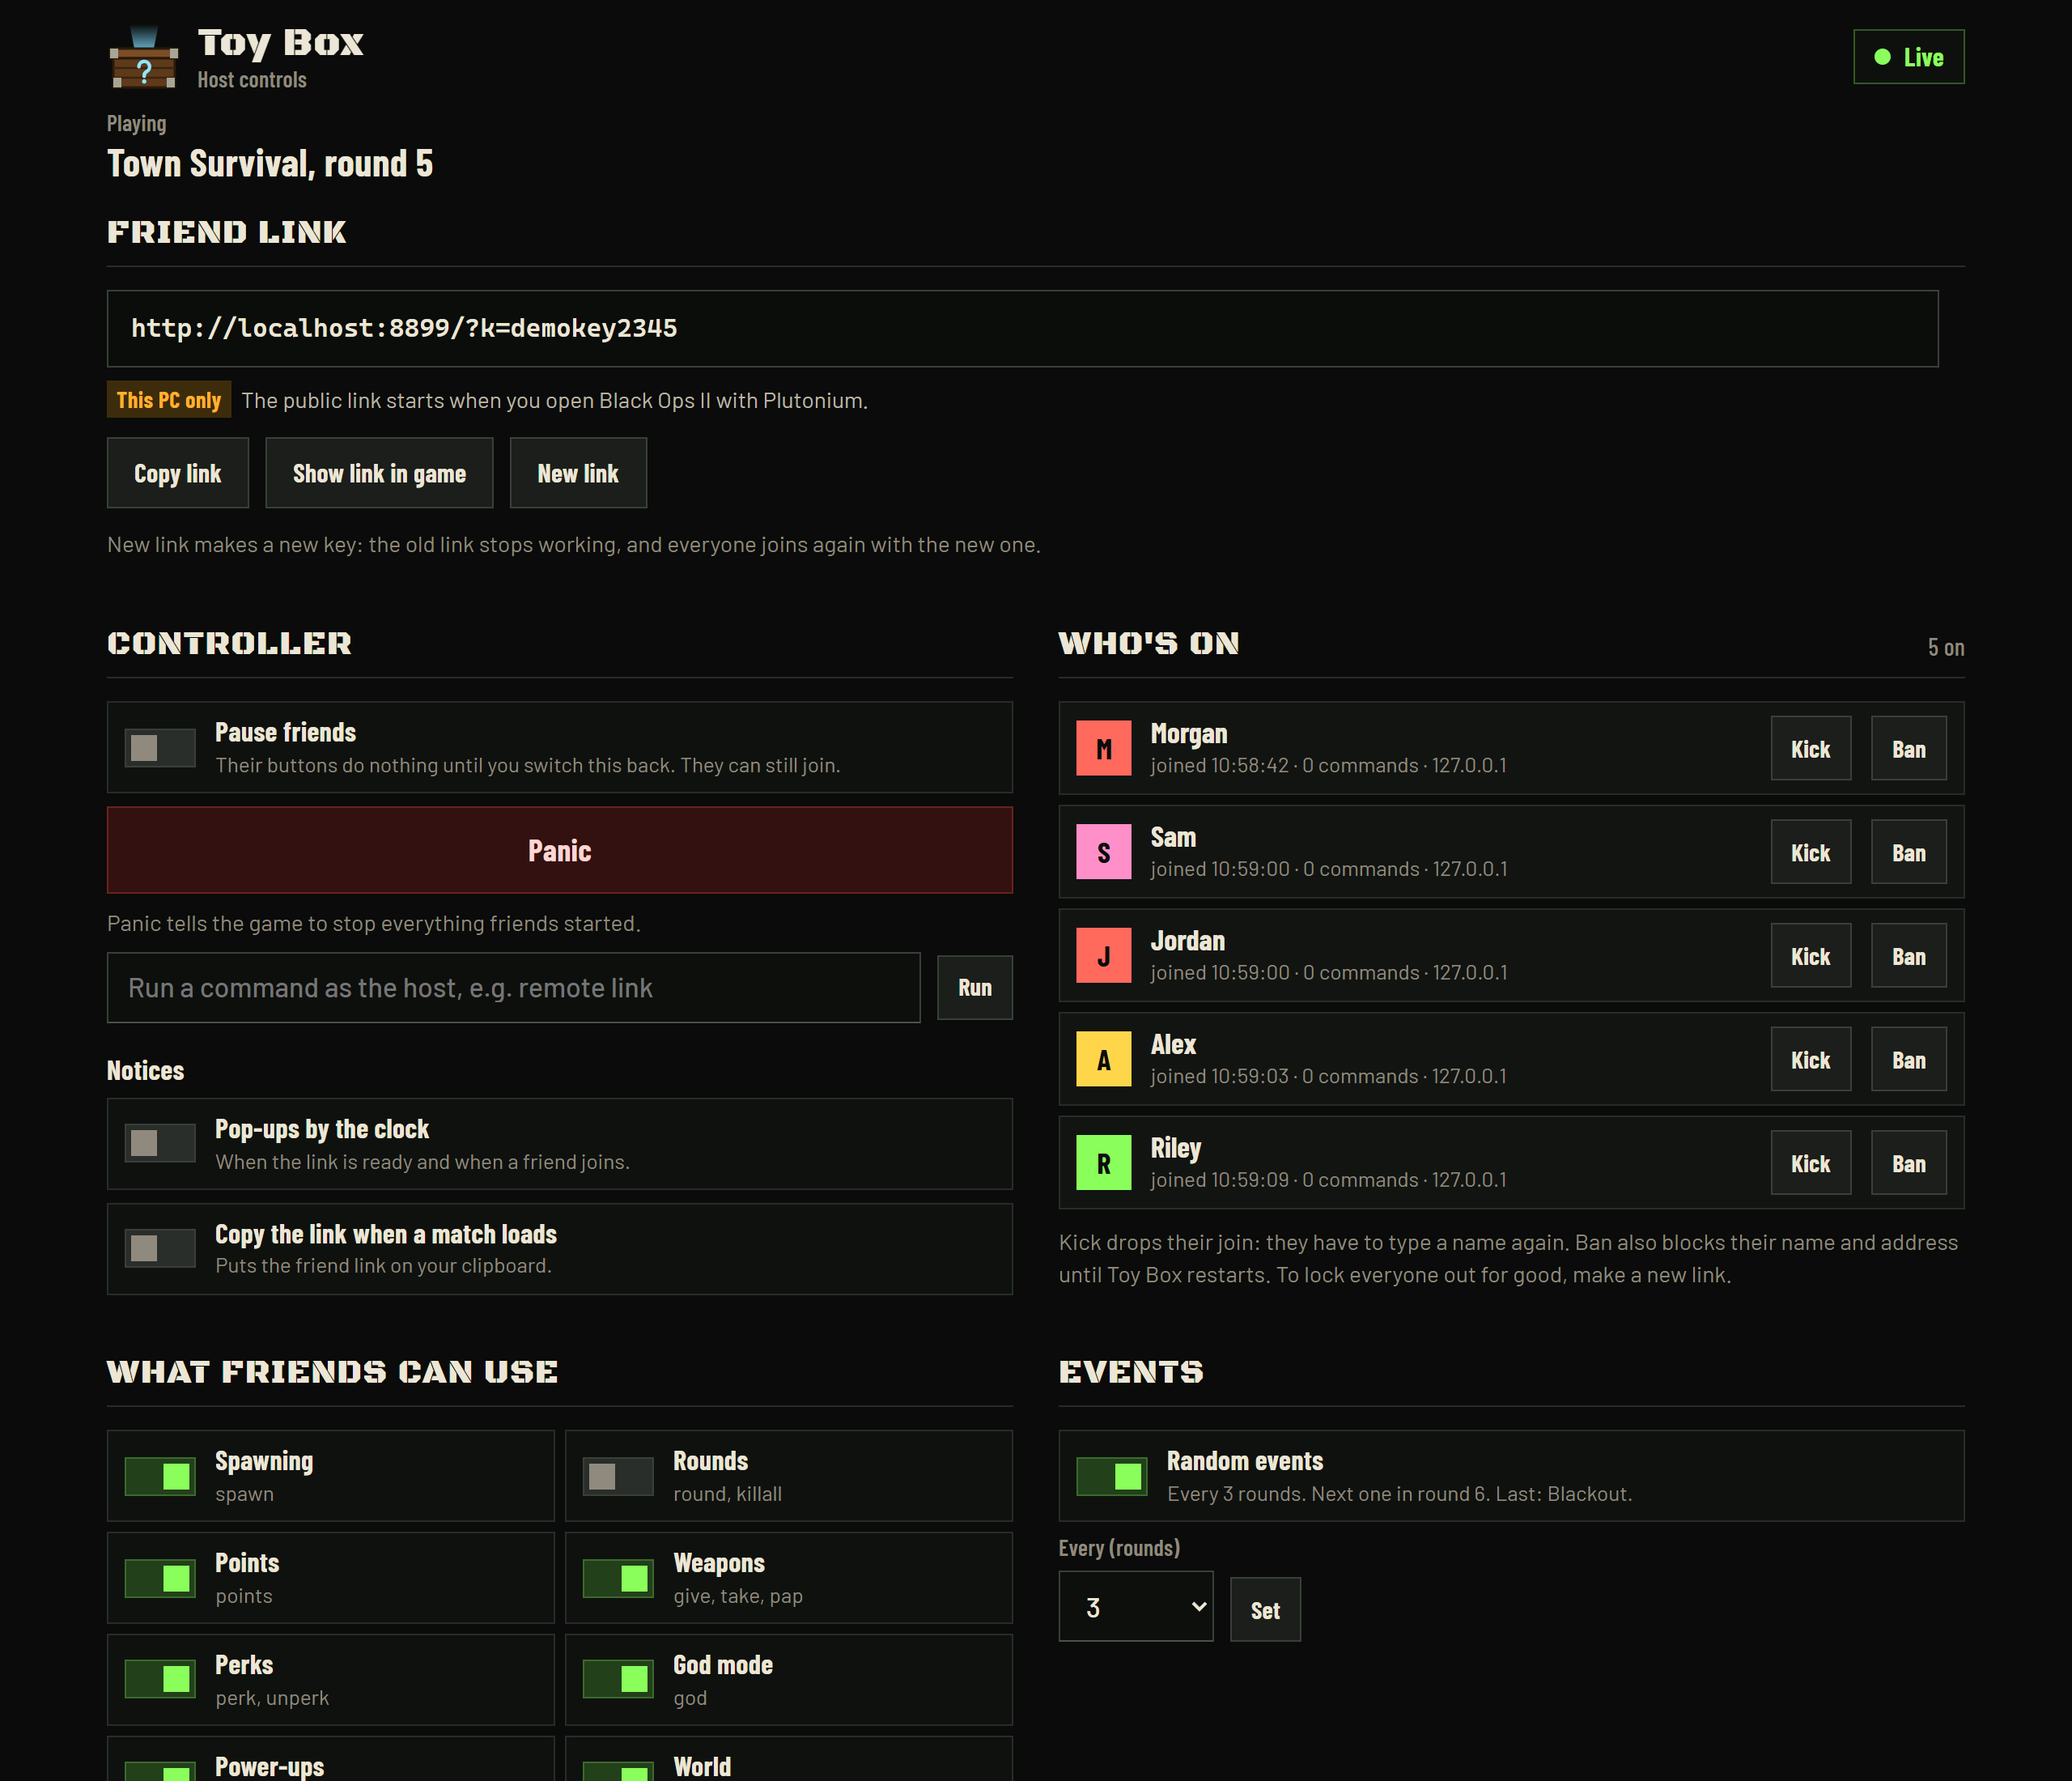
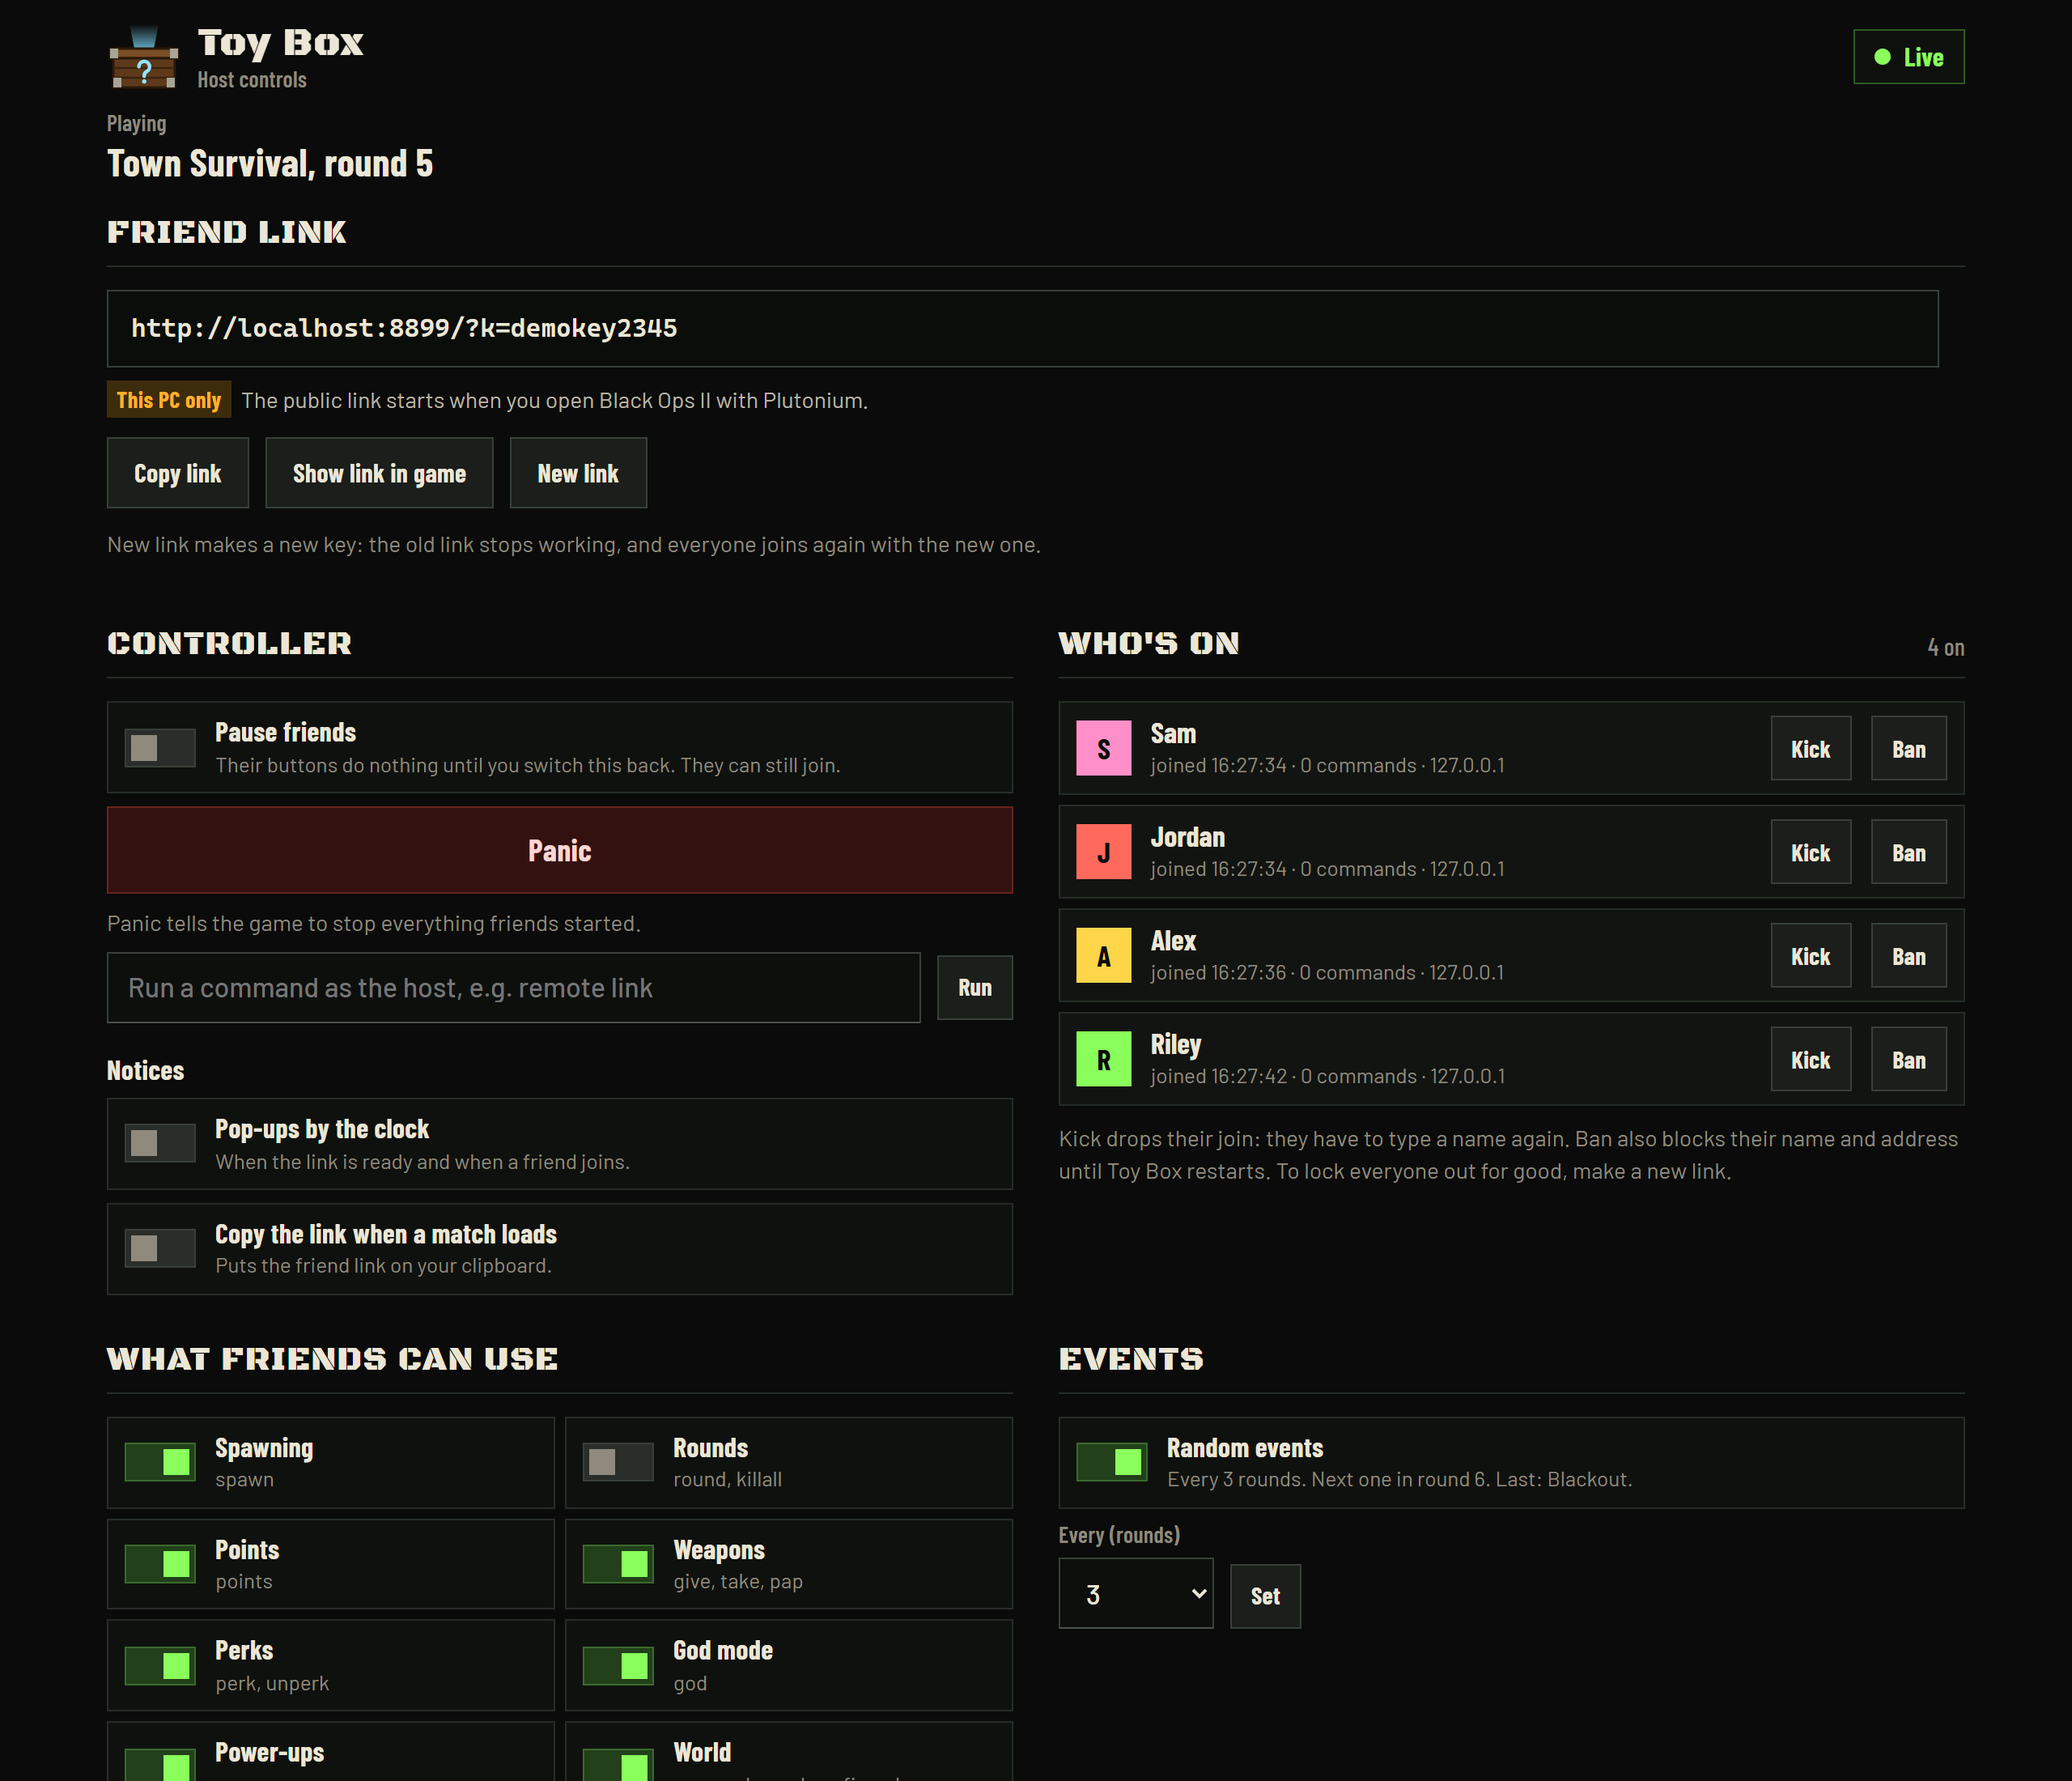
Guide: host limits, 13 eye colors and hex colors, builder pages out until Beta

diff --git a/docs/host-controls.md b/docs/host-controls.md
@@ -12,11 +12,24 @@ A page opens in your browser. It only works on your PC. Friends can't reach it.
 
 - **Who's on:** everyone on the friend page. Kick or ban anyone.
 - **What friends can use:** switch whole groups off, like spawning, weapons or god mode.
-- **Limits:** a wait between each friend's commands, and the most zombies one spawn can send.
+- **Limits:** a cooldown or a number of uses on one button, a group, or every command. For example "Max Ammo: once every 3 rounds" or "Kill All: 1 use per match".
+- **Wait and spawn size:** a wait between each friend's commands, and the most zombies one spawn can send.
 - **Events and a simulated friend:** switch them on or off.
 - **Live now:** running bounties, effects and scheduled commands. Each has a cancel button.
 - **A command box:** type any command. It runs as you.
 - **Match history:** every match, with what each friend did, as downloads.
+
+## Limits
+
+Under **What friends can use**, click **Add a limit**. Pick a button, a group or every command, then set any of these:
+
+- **Once every N seconds**
+- **Once every N rounds**
+- **N uses per match**
+
+Each limit is shared by all friends, or counted for each friend. Uses start over each match.
+
+![Adding a limit in Host controls](images/host-limits.png)
 
 ## Good to know
 
@@ -44,6 +57,7 @@ The file is `%LOCALAPPDATA%\Toy Box\settings.json`, made on first run.
 | `cooldown_seconds` | 0 | Wait between each friend's commands. 0 is off |
 | `allow_get_commands` | `false` | `true` lets a plain link send a command (Stream Deck, bots). Chat apps preview links, so a pasted command link would run itself |
 | `max_spawn` | 0 | Most enemies one `spawn` can ask for. 0 is no limit |
+| `limits` | none | The limits from Host controls. Each has `what`, `each` (each friend, not shared), `seconds`, `rounds` and `uses` |
 | `blocked` | `compat`, `remote`, `panic`, `bot`, `simulate`, `round`, `killall` | Commands friends can't use. A `later` command is checked for what it schedules too |
 | `host_key` | random | The key for host controls. Never part of a friend link |
 | `friends_off` | `false` | Pause friends. Joining still works |

diff --git a/docs/api.md b/docs/api.md
@@ -33,6 +33,7 @@ Every call needs the key from the friend link: the `X-Toybox-Key` header, or `?k
 **Commands**
 - Without a token, give a `"name"` nobody on the page is using. With neither, `401`.
 - `429` while 8 of that friend's commands, or 50 in all, are waiting for the game.
+- `429` when one of the host's limits says not yet. The error says when, like "Max Ammo: once every 3 rounds. Try again in round 8."
 
 **State**
 - Comes with an `ETag`. Send it back as `If-None-Match` to get a `304` while nothing has changed.
@@ -42,6 +43,10 @@ Every call needs the key from the friend link: the `X-Toybox-Key` header, or `?k
   - `scheduled`: `{id,when,command,by}`. `when` is seconds, or `r<round>`.
   - `events`: `{on,every,next_round,last}`.
   - `solo`: `{mode,level}`. Mode 0 off, 1 fair, 2 troll. Level 1 chill, 2 normal, 3 wild.
+- `limits`: the host's limits, as they stand for you. `{label,text,each,all,match,seconds,rounds,uses,wait,next_round,left,use_times,use_rounds}`.
+  - `match`: how the commands it covers start, like `ammo` or `powerup full_ammo`. `all`: it covers every command.
+  - `wait`: seconds until it's ready. `next_round`: the round it's back, or 0. `left`: uses left this match, or `-1` with no cap.
+  - `use_times` and `use_rounds`: when each use counted so far runs, in seconds from now (above 0 means it's scheduled for later) and as a round. A new use has to be a full cooldown away from all of them.
 
 **Names**
 - A name is taken while its page is open.

diff --git a/README.md b/README.md
@@ -7,7 +7,7 @@ You've probably seen mods where chat or typed commands mess with your game. Toy 
 - **Just a link.** Friends tap buttons on their phone. No Twitch, no account, no port forwarding, and they don't need the game.
 - **Feels like the real game.** Power-ups come with the announcer, perks with the burp. It's all built on BO2's own scripts.
 - **Every map.** Survival and Classic, with each map's own bosses and specials.
-- **You're in charge.** Pause friends, hit Panic, kick anyone, or switch off what you don't want.
+- **You're in charge.** Set cooldowns, pause friends, hit Panic, kick anyone, or switch off what you don't want.
 - **Playing alone?** The game can play a friend for you.
 
 <table>
@@ -45,7 +45,7 @@ That's it. Friends open the link and type a name.
 
 **Extras:** [Host controls](docs/host-controls.md) · [Match stats and contests](docs/match-stats.md) · [Settings tab](docs/settings-tab.md) · [Console commands](docs/commands.md) · [Privacy](docs/privacy.md)
 
-**For modders:** [Install without the exe](docs/manual-install.md) · [Web API](docs/api.md) · [Mod API](docs/mod-api.md) · [Building](docs/building.md)
+**For modders:** [Web API](docs/api.md) · [Mod API](docs/mod-api.md)
 
 > **Looking for the source code?** It goes public with Beta 1.0. Until then, this page has the guide and the downloads.
 

diff --git a/docs/commands.md b/docs/commands.md
@@ -37,7 +37,7 @@ Example: `set tb perk all @all` gives everyone every perk.
 
 ## All commands
 
-Type them as `set tb <command>`. Friends send the same commands from their page.
+Type them as `set tb <command>`. Friends send the same commands from their page. Limits and switches in [Host controls](host-controls.md) only hold friends back, never you.
 
 ### Gear
 
@@ -109,7 +109,7 @@ Type them as `set tb <command>`. Friends send the same commands from their page.
 |---|---|
 | `help [command]` | Lists the commands, or shows one command's usage |
 | `weapons`, `perks`, `powerups`, `enemies` | Lists what this map has |
-| `eyes [default\|orange\|red\|blue\|purple]` | Zombie eye color for everyone. Needs the zm_toybox mod |
+| `eyes [default\|<color>\|<hex color>]` | Zombie eye color for everyone: yellow, orange, red, crimson, pink, magenta, purple, deep blue, blue, pale blue, teal, green or lime. A hex color like `ff66cc` gets the closest one. Needs the zm_toybox mod |
 | `compat [on\|off]` | Compatibility mode ([more](mod-api.md)) |
 | `remote [on\|off\|link\|copy]` | The friend link: status, on, off, show it, copy it |
 | `panic` | Undoes the chaos. A simulated friend backs off for 90 seconds |

diff --git a/CHANGELOG.md b/CHANGELOG.md
@@ -7,8 +7,9 @@ The first public build.
 - **Friend link:** friends open a link, pick a name and get buttons for power-ups, perks, weapons, enemies, points, rounds, the map, tricks, scares and bounties.
 - **Playing alone:** the game plays a friend for you, fair or troll, at chill, normal or wild.
 - **ToyBox.exe:** one-click install, the teddy bear by the clock with the friend link, and Host controls.
+- **Limits:** the host can put a cooldown (seconds or rounds) or a number of uses per match on any button, group or every command.
 - **Match stats** for contests, as CSV or JSON.
 - **Random events** every few rounds.
-- **Zombie eye colors**, and white eyes on zombies friends send.
+- **Zombie eye colors:** 13 colors, or any hex color (it takes the closest), and white eyes on zombies friends send.
 - **Console commands** for everything (`set tb help`), and an API for other mods.
 - Every zombies map, Survival and Classic.

diff --git a/LICENSE.md b/LICENSE.md
@@ -29,8 +29,8 @@ Parts of this project belong to other people, and this license does not change t
   same folder.
 * **The Options menu** (`ui/t6/options.lua`) is built on BO2 Reimagined's decompile of the stock
   menu, which stays under its authors' terms.
-* **Call of Duty: Black Ops II** game assets, which belong to Activision and Treyarch: the eye
-  effects copied into `mod.ff`, the teddy bear the icon is rendered from, the perk icons,
+* **Call of Duty: Black Ops II** game assets, which belong to Activision and Treyarch: the effect
+  materials the eye colors draw with, the teddy bear the icon is rendered from, the perk icons,
   power-ups and weapon pictures in `remote/art`, and the game's sounds and scripts the mod calls.
   Toy Box needs a legitimate copy of the game and is not affiliated with or endorsed by
   Activision, Treyarch or Plutonium.

diff --git a/docs/credits.md b/docs/credits.md
@@ -5,7 +5,6 @@
 - [Plutonium](https://plutonium.pw).
 - The Options menu is built on BO2 Reimagined's decompile of the stock menu.
 - [cloudflared](https://github.com/cloudflare/cloudflared) by Cloudflare (Apache 2.0) makes the friend link reachable from anywhere. Its license ships with ToyBox.exe.
-- The eye colors are built with [OpenAssetTools](https://github.com/Laupetin/OpenAssetTools).
 - Fonts:
   - [Barlow](https://github.com/jpt/barlow) and Barlow Condensed by Jeremy Tribby (SIL Open Font License 1.1)
   - [Black Ops One](https://fonts.google.com/specimen/Black+Ops+One) by James Grieshaber and Eben Sorkin (SIL Open Font License 1.1)

diff --git a/docs/friends.md b/docs/friends.md
@@ -27,6 +27,10 @@ At the bottom of their page:
 - Zombies your friends send have **white eyes**.
 - Skipping rounds and killing everything are **off** for friends. Turn them on in [Host controls](host-controls.md).
 - If your game is paused, their buttons wait and run when you're back.
+- If you set [limits](host-controls.md#limits), their buttons show what's left, and wait once it's used up:
+
+  <img src="images/friend-limited.png" width="380" alt="Max Ammo waiting for round 8, Every Perk with 2 left">
+
 - The link changes each time you open the game. Send the new one.
 
 > **Anyone with the link can control your match.**

diff --git a/docs/settings-tab.md b/docs/settings-tab.md
@@ -9,7 +9,7 @@ In a Toy Box match or the main menu: **Options > Settings > TOY BOX**.
 | **Friend controller** | On or off. When off, friends' buttons do nothing |
 | **Show link on screen** | Shows the friend link again |
 | **Copy link** | Copies it again |
-| **Zombie eyes** | The map's own, orange, red, blue or purple, for everyone |
+| **Zombie eyes** | The map's own or one of 13 colors, for everyone |
 | **Random events** | Off, or a random event every 1, 2, 3 or 5 rounds |
 | **Simulate a friend** | See [Playing alone](play-alone.md) |
 | **Intensity** | How busy the simulated friend is |
